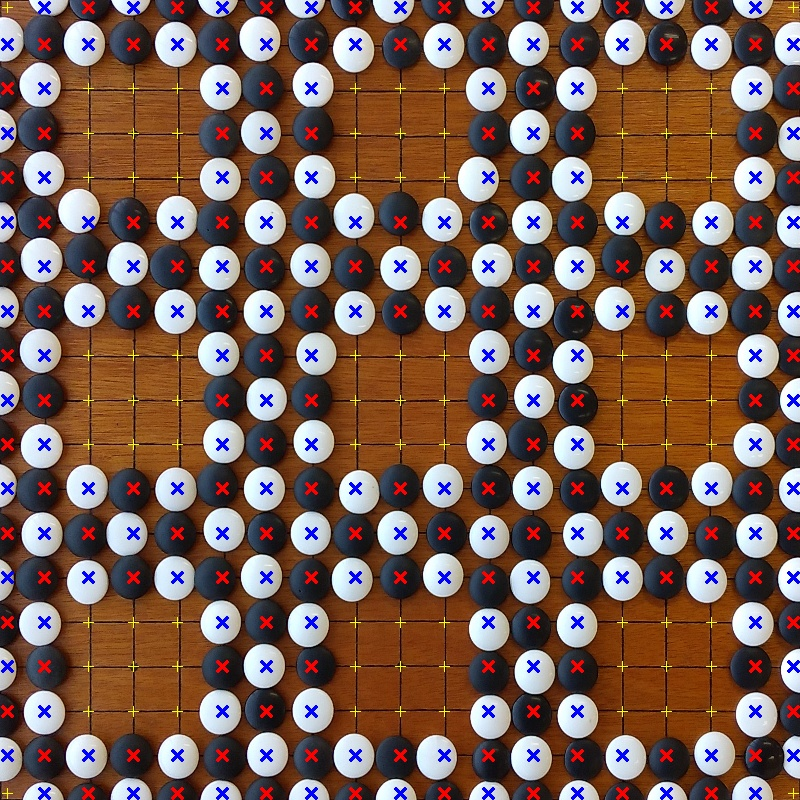
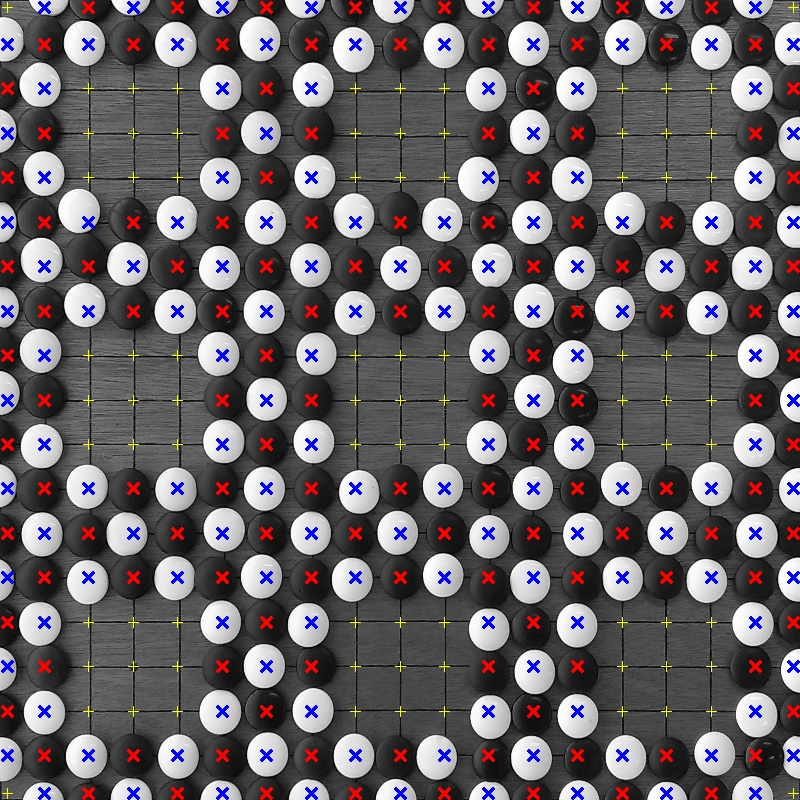
Jan11_0134

diff --git a/PyTest_v2.py b/PyTest_v2.py
@@ -12,13 +12,14 @@ else : os.system("clear")
 #           --- 処理開始 ---
 
 # ファイル指定と、指定ファイルの表示
-filename = "DSC_0099" # ファイル名指定
+filename = "DSC_0100" # ファイル名指定
 
 
 print("FILE = " + filename)
 
-threshold_black = 60.0
-threshold_white = 160.0
+threshold_black = 0
+threshold_white = int(input())
+# print("Threshold_black = " + str(threshold_black))
 
 
 
@@ -51,61 +52,62 @@ cornerOfImage = np.float32([[0,0], [800,0], [800,800], [0, 800]])
 cornerImg = MOD.drawCorner(originalImg,pts)
 for p in pts:
     cv2.drawMarker(cornerImg, (p[0],p[1]), (0, 255, 0), cv2.MARKER_TILTED_CROSS, 50, 10)
-cv2.namedWindow("cornerImg", cv2.WINDOW_NORMAL)
-cv2.imshow("cornerImg",cornerImg)
-cv2.waitKey(0)
+# cv2.namedWindow("cornerImg", cv2.WINDOW_NORMAL)
+# cv2.imshow("cornerImg",cornerImg)
+# cv2.waitKey(0)
 cv2.imwrite('./Results/' + filename + '/cornerImg.jpg', cornerImg)
 
 # 透視変換(Perspective Transform)
 boardImg = MOD.perspectiveTransform(originalImg, cornerOfGoBoard, cornerOfImage)
-cv2.imshow("Results/boardImg",boardImg)
-cv2.waitKey(0)
+# cv2.imshow("Results/boardImg",boardImg)
+# cv2.waitKey(0)
 cv2.imwrite('./Results/' + filename + '/boardImg.jpg', boardImg)
 
 # BGR→GRAY変換
 GRAYImg = cv2.cvtColor(boardImg, cv2.COLOR_BGR2GRAY)
-cv2.imshow("GRAYImg",GRAYImg)
-cv2.waitKey(0)
+# cv2.imshow("GRAYImg",GRAYImg)
+# cv2.waitKey(0)
 cv2.imwrite('./Results/' + filename + '/GRAYImg.jpg', GRAYImg)
 
 # ノイズ処理
 kernelSize = 25
 noiseReducedImg = cv2.medianBlur(GRAYImg,kernelSize)
-cv2.imshow("noiseReducedImg",noiseReducedImg)
-cv2.waitKey(0)
+# cv2.imshow("noiseReducedImg",noiseReducedImg)
+# cv2.waitKey(0)
 cv2.imwrite('./Results/' + filename + '/noiseReducedImg.jpg', noiseReducedImg)
 
 # 結果に重ねる用の，カラー画像に変換したnoiseReducedImg(GRAY)
 GRAY_to_COLOR_noiseReduced = cv2.cvtColor(noiseReducedImg, cv2.COLOR_GRAY2BGR)
+GRAY_to_COLOR = cv2.cvtColor(GRAYImg,cv2.COLOR_GRAY2BGR)
 
 
 # 交点付与（これ自体はなくてもいいが，取得領域の確認用）
 boardWithAreaImg = MOD.drawXP_Rect(GRAY_to_COLOR_noiseReduced)
-cv2.imshow("boardWithAreaImg",boardWithAreaImg)
-cv2.waitKey(0)
+# cv2.imshow("boardWithAreaImg",boardWithAreaImg)
+# cv2.waitKey(0)
 cv2.imwrite('./Results/' + filename + '/boardWithAreaImg.jpg', boardWithAreaImg)
 
 color_boardWithAreaImg = MOD.drawXP_Rect(boardImg)
-cv2.imshow("color_boardWithAreaImg",color_boardWithAreaImg)
-cv2.waitKey(0)
+# cv2.imshow("color_boardWithAreaImg",color_boardWithAreaImg)
+# cv2.waitKey(0)
 cv2.imwrite('./Results/' + filename + '/color_boardWithAreaImg.jpg', color_boardWithAreaImg)
 
 # 石の有無を計算
 stonePosition_NoMask = MOD.checkStonePosition(noiseReducedImg, threshold_black, threshold_white) 
 # noiseReducedに重ねて計算結果を表示
 result_noiseReduced = MOD.drawTerritoryColor(GRAY_to_COLOR_noiseReduced,stonePosition_NoMask)
-cv2.imshow("result_noiseReduced",result_noiseReduced)
-cv2.waitKey(0)
+# cv2.imshow("result_noiseReduced",result_noiseReduced)
+# cv2.waitKey(0)
 cv2.imwrite('./Results/' + filename + '/result_noiseReduced.jpg', result_noiseReduced)
 
 # 盤面画像に重ねて計算結果を表示
-result = MOD.drawTerritoryColor(boardImg,stonePosition_NoMask)
+result = MOD.drawTerritoryColor(GRAY_to_COLOR,stonePosition_NoMask)
 cv2.imshow("result",result)
 cv2.waitKey(0)
 cv2.imwrite('./Results/' + filename + '/result.jpg', result)
 
 # 結果
-# resultImg = MOD.drawTerritoryColor(boardImg,stonePosition)
+# resultImg = MOD.drawTerritoryColor(GRAY_to_COLOR,stonePosition)
 # cv2.imshow("resultImg",resultImg)
 # cv2.waitKey(0)
 # cv2.imwrite('./Results/' + filename + '/resultIMG.jpg', resultImg)
@@ -138,23 +140,24 @@ with open('./Results/' + filename + '/' + filename + '.csv', 'r', newline="") as
     # csv上の石の数
     BLACK_c = 0
     WHITE_c = 0
+    BLACK_d = 0
+    WHITE_d = 0
+
     for R_csv in l: 
         BLACK_c += R_csv.count('B')
         WHITE_c += R_csv.count('W')
 
     # システムが検知(detect)した石の検知数
-    BLACK_d = 0
-    WHITE_d = 0
     for R_detected in stonePosition_NoMask:
         BLACK_d += R_detected.count('B')
         WHITE_d += R_detected.count('W')
 
+    print("WHITE_Diff = "+str(WHITE_d-WHITE_c))
     # # 比較結果を画像に重ねる．
     compare = np.array(stonePosition_NoMask) == np.array(l)
     # print(compare)
     resultCompare = MOD.drawCompareStone(boardImg, compare)
-    cv2.imshow("compare", resultCompare)
-    cv2.waitKey(0)
+    # cv2.imshow("compare", resultCompare)
+    # cv2.waitKey(0)
     cv2.imwrite('./Results/' + filename + '/resultCompare.jpg', resultCompare)
 
-print("END")

diff --git a/Module.py b/Module.py
@@ -144,3 +144,11 @@ def drawCompareStone(img,territoryTable):
             j += 1
         i += 1
     return outputImg
+
+def list_difference(list1, list2):
+    result = list1.copy()
+    for value in list2:
+        if value in result:
+            result.remove(value)
+
+    return result
